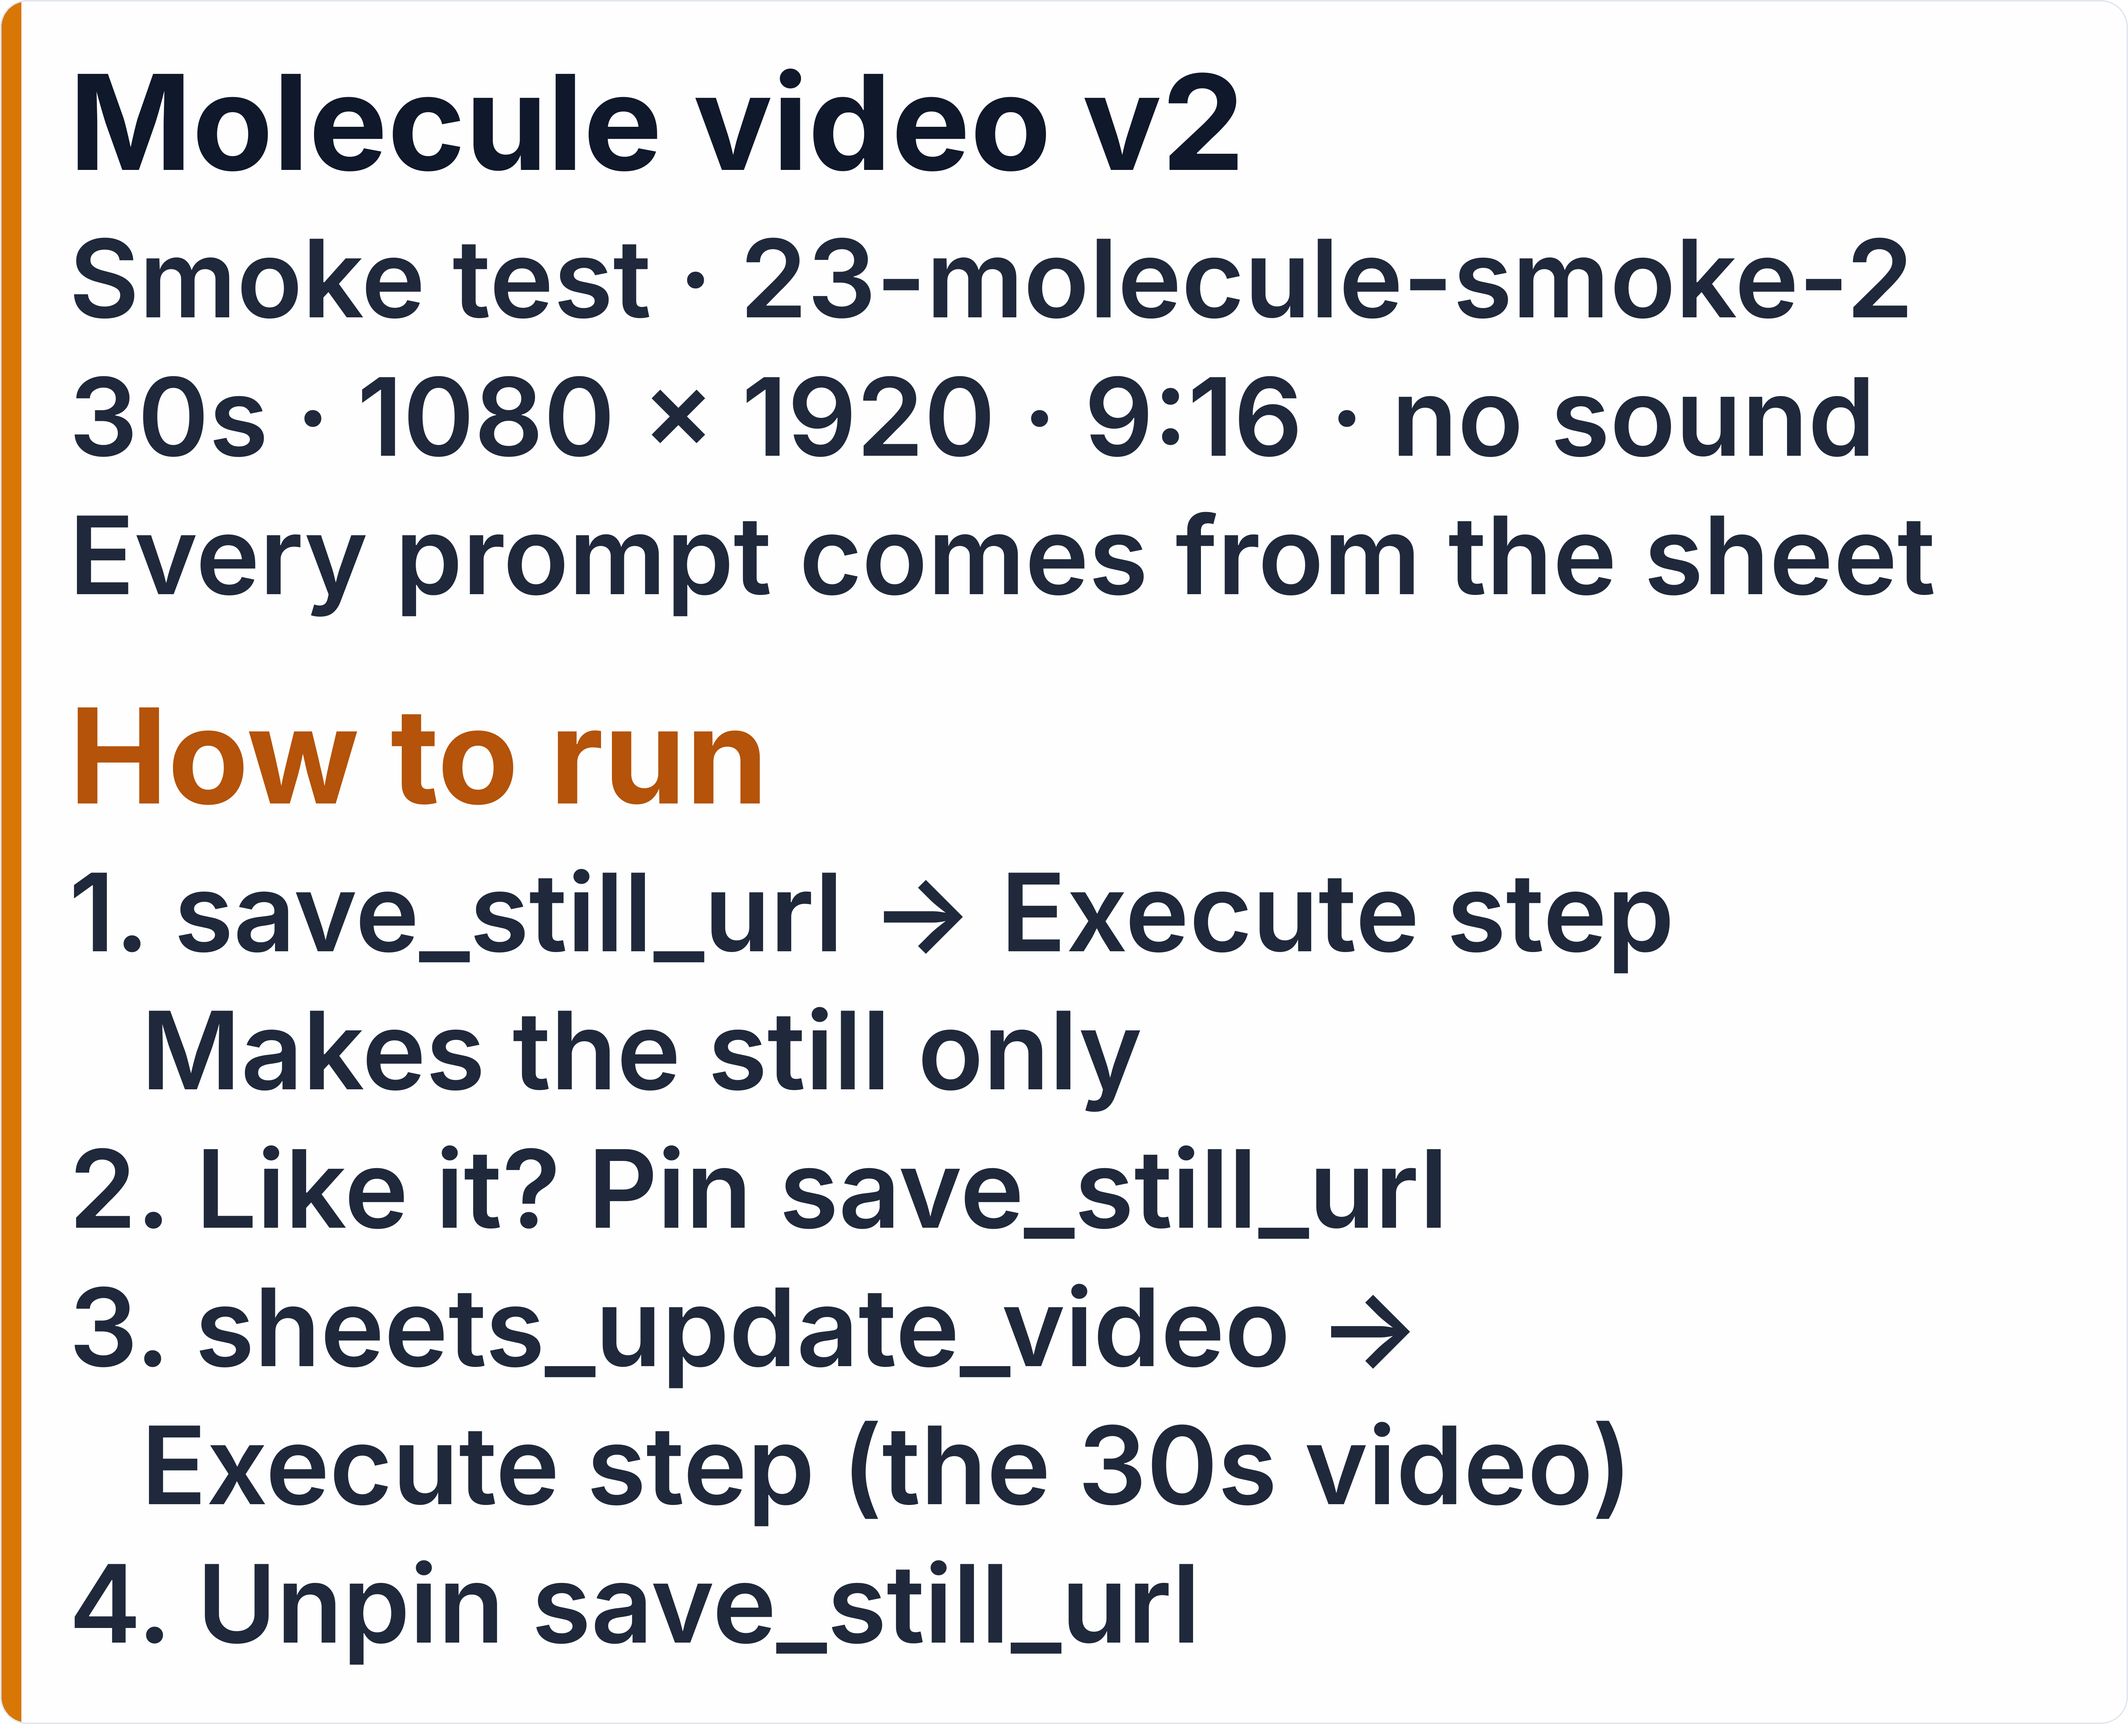
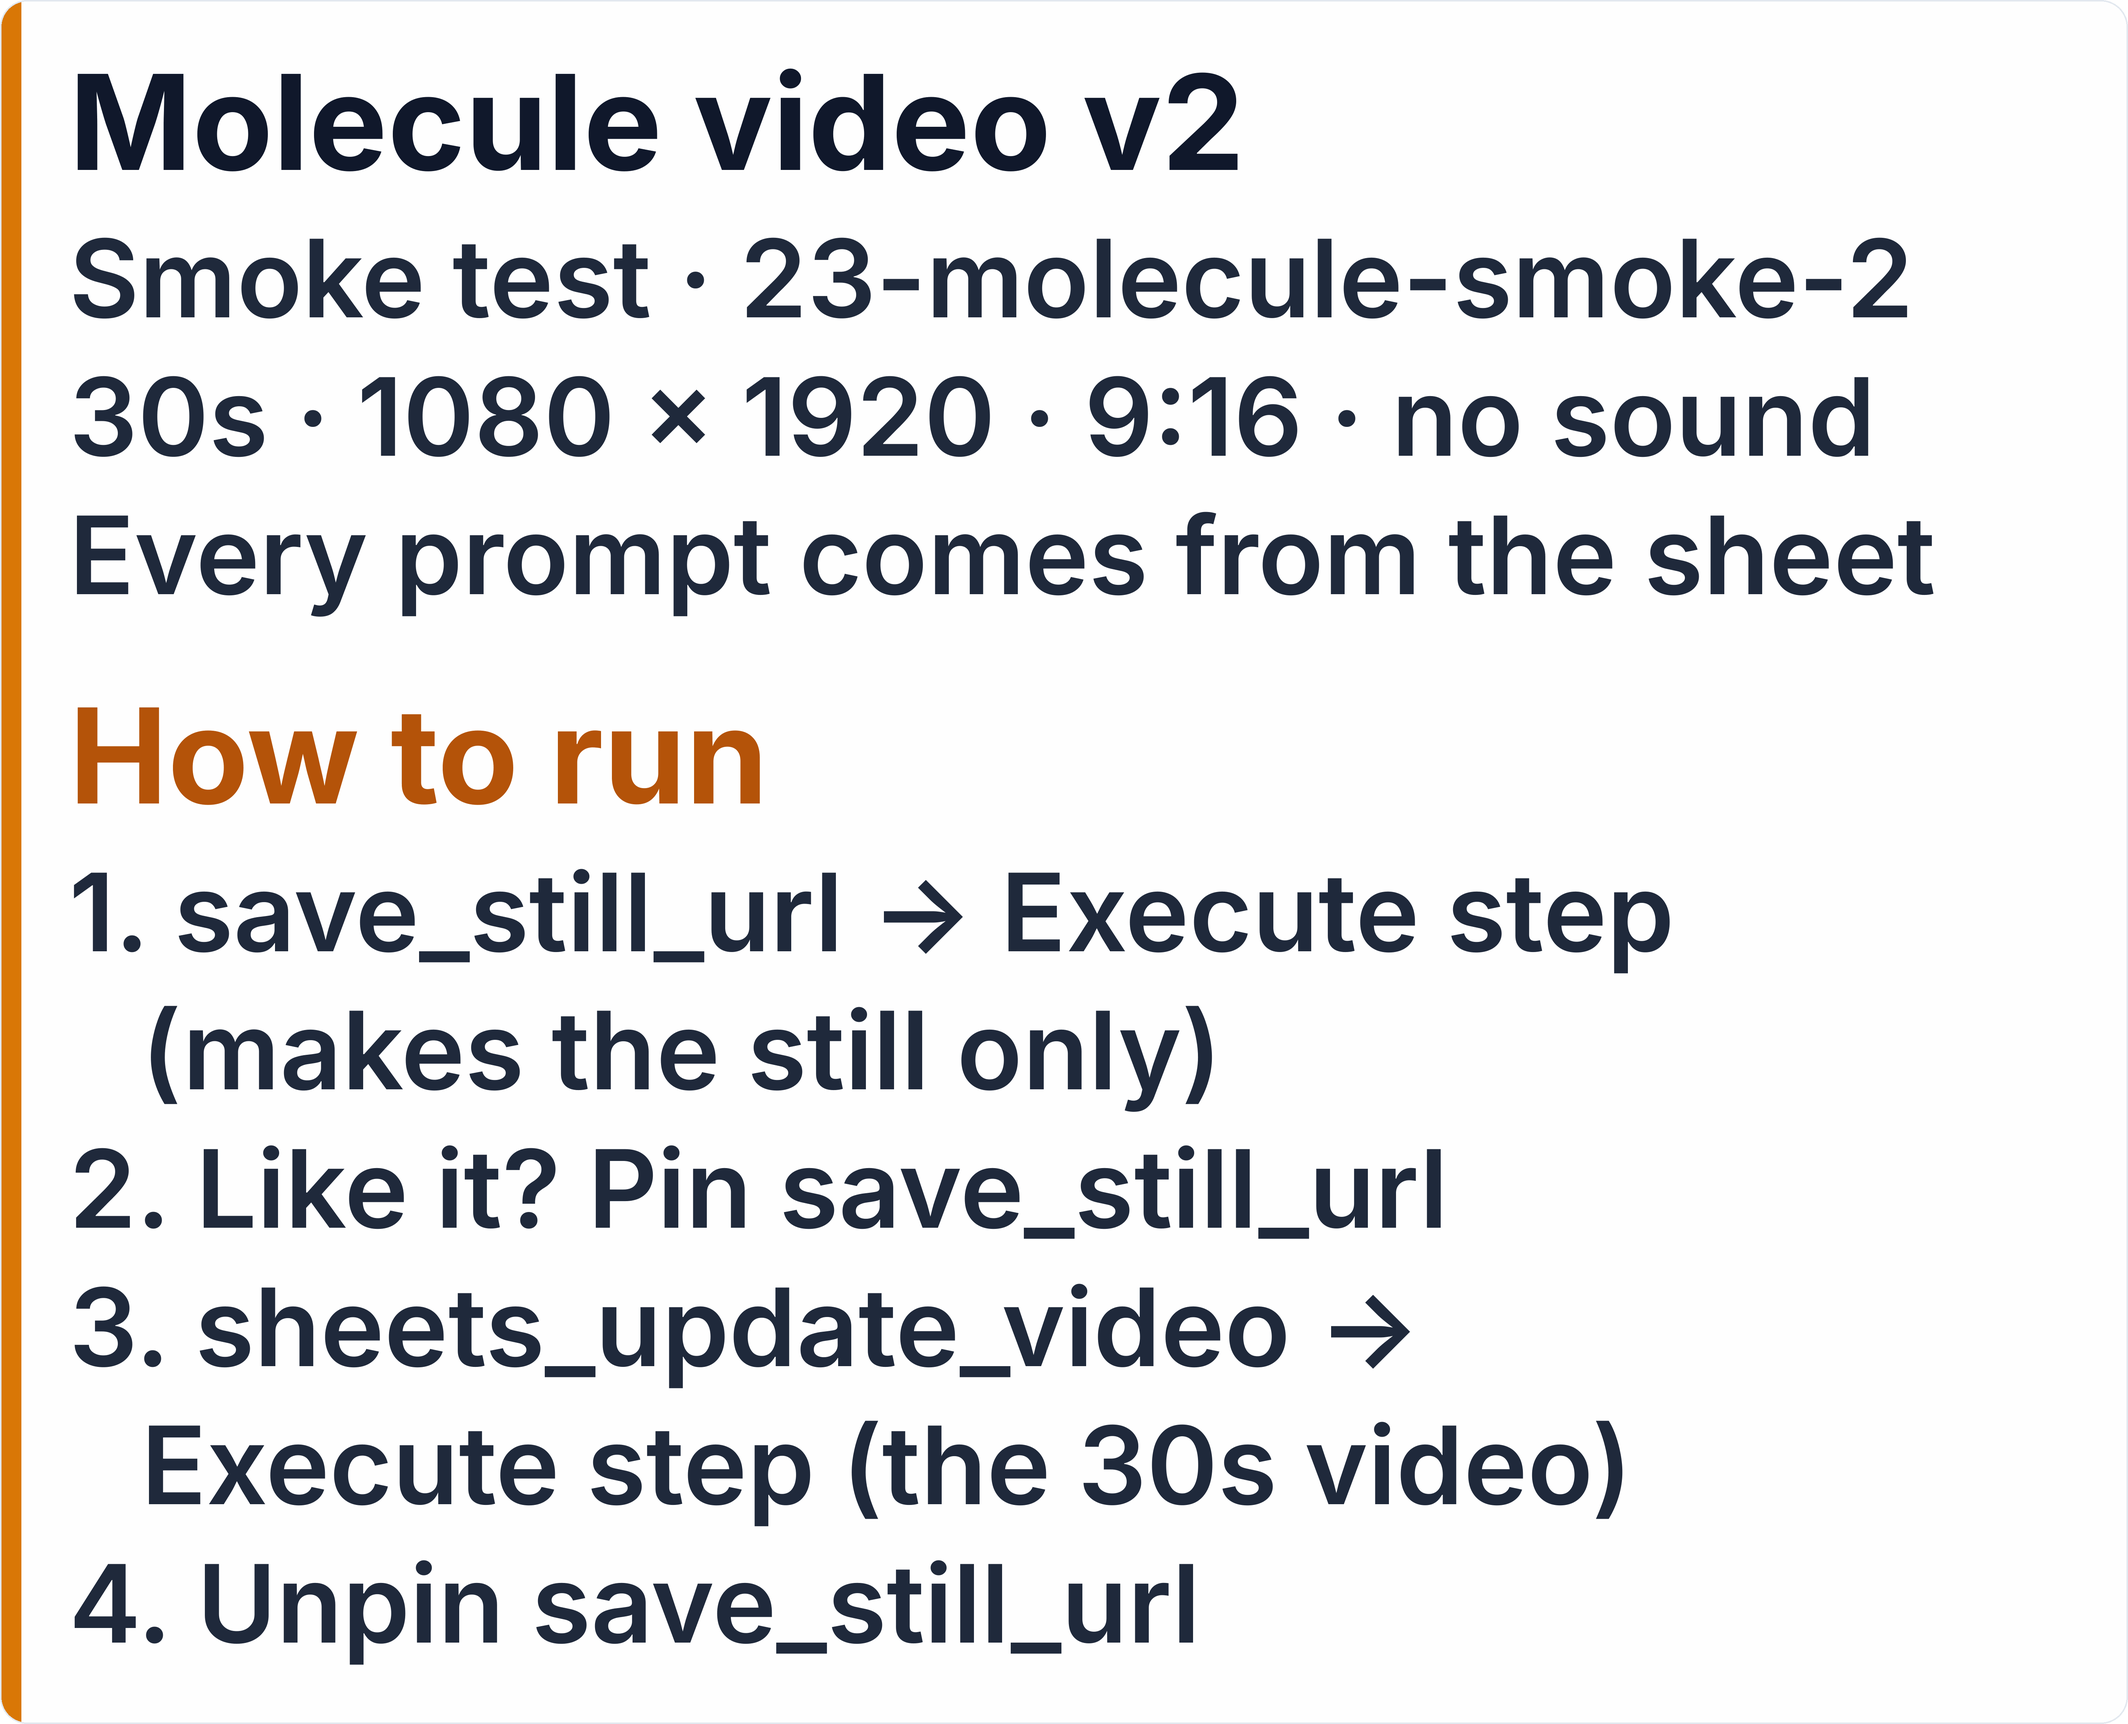
Match the overview note's step 1 wording to step 3 and join wrapped lines in alt text

Changed region(s): [[0.0624, 0.5912, 0.5929, 0.6534]]

diff --git a/marketing/scripts/render_n8n_note_images.py b/marketing/scripts/render_n8n_note_images.py
@@ -71,7 +71,7 @@ NOTES = [
             ("gap", ""),
             ("heading", "How to run"),
             ("body", "1. save_still_url → Execute step"),
-            ("indent", "Makes the still only"),
+            ("indent", "(makes the still only)"),
             ("body", "2. Like it? Pin save_still_url"),
             ("body", "3. sheets_update_video →"),
             ("indent", "Execute step (the 30s video)"),
@@ -166,7 +166,12 @@ def render(note: dict) -> dict:
 
     path = OUT_DIR / note["file"]
     out.quantize(colors=96, method=Image.Quantize.FASTOCTREE).save(path, optimize=True)
-    alt = " · ".join(t for k, t in note["lines"] if k != "gap")
+    alt = ""
+    for kind, text in note["lines"]:
+        if kind == "gap":
+            continue
+        joins_previous = kind == "indent" or alt.endswith((",", "→"))
+        alt += (" " if joins_previous else " · ") + text if alt else text
     return {
         "name": note["name"],
         "file": note["file"],
